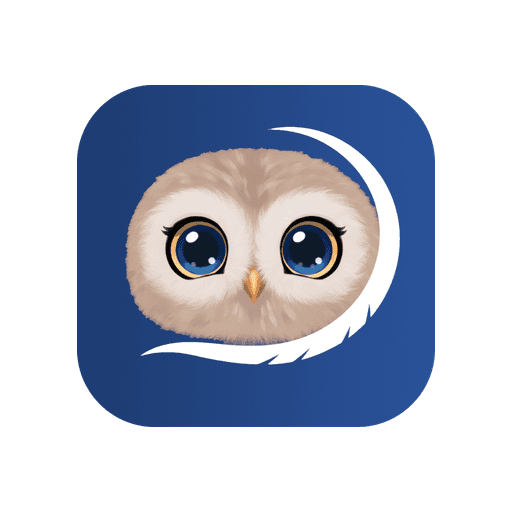
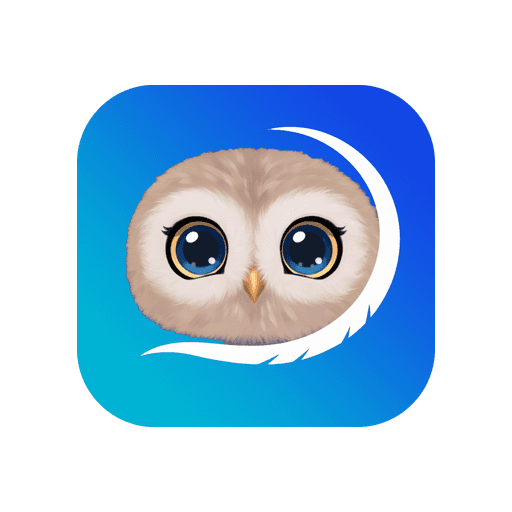
Design header

diff --git a/apps/app/src/index.css b/apps/app/src/index.css
@@ -6,73 +6,71 @@
 @custom-variant dark (&:is(.dark *));
 
 :root {
+  --radius: 0.65rem;
   --background: oklch(1 0 0);
-  --foreground: oklch(0.145 0 0);
+  --foreground: oklch(0.141 0.005 285.823);
   --card: oklch(1 0 0);
-  --card-foreground: oklch(0.145 0 0);
+  --card-foreground: oklch(0.141 0.005 285.823);
   --popover: oklch(1 0 0);
-  --popover-foreground: oklch(0.145 0 0);
-  --primary: oklch(0.205 0 0);
-  --primary-foreground: oklch(0.985 0 0);
-  --secondary: oklch(0.97 0 0);
-  --secondary-foreground: oklch(0.205 0 0);
-  --muted: oklch(0.97 0 0);
-  --muted-foreground: oklch(0.556 0 0);
-  --accent: oklch(0.97 0 0);
-  --accent-foreground: oklch(0.205 0 0);
+  --popover-foreground: oklch(0.141 0.005 285.823);
+  --primary: oklch(0.488 0.243 264.376);
+  --primary-foreground: oklch(0.97 0.014 254.604);
+  --secondary: oklch(0.967 0.001 286.375);
+  --secondary-foreground: oklch(0.21 0.006 285.885);
+  --muted: oklch(0.967 0.001 286.375);
+  --muted-foreground: oklch(0.552 0.016 285.938);
+  --accent: oklch(0.967 0.001 286.375);
+  --accent-foreground: oklch(0.21 0.006 285.885);
   --destructive: oklch(0.577 0.245 27.325);
-  --destructive-foreground: oklch(0.577 0.245 27.325);
-  --border: oklch(0.922 0 0);
-  --input: oklch(0.922 0 0);
+  --border: oklch(0.92 0.004 286.32);
+  --input: oklch(0.92 0.004 286.32);
   --ring: oklch(0.708 0 0);
-  --chart-1: oklch(0.646 0.222 41.116);
-  --chart-2: oklch(0.6 0.118 184.704);
-  --chart-3: oklch(0.398 0.07 227.392);
-  --chart-4: oklch(0.828 0.189 84.429);
-  --chart-5: oklch(0.769 0.188 70.08);
-  --radius: 0.625rem;
+  --chart-1: oklch(0.809 0.105 251.813);
+  --chart-2: oklch(0.623 0.214 259.815);
+  --chart-3: oklch(0.546 0.245 262.881);
+  --chart-4: oklch(0.488 0.243 264.376);
+  --chart-5: oklch(0.424 0.199 265.638);
   --sidebar: oklch(0.985 0 0);
-  --sidebar-foreground: oklch(0.145 0 0);
-  --sidebar-primary: oklch(0.205 0 0);
-  --sidebar-primary-foreground: oklch(0.985 0 0);
-  --sidebar-accent: oklch(0.97 0 0);
-  --sidebar-accent-foreground: oklch(0.205 0 0);
-  --sidebar-border: oklch(0.922 0 0);
+  --sidebar-foreground: oklch(0.141 0.005 285.823);
+  --sidebar-primary: oklch(0.546 0.245 262.881);
+  --sidebar-primary-foreground: oklch(0.97 0.014 254.604);
+  --sidebar-accent: oklch(0.967 0.001 286.375);
+  --sidebar-accent-foreground: oklch(0.21 0.006 285.885);
+  --sidebar-border: oklch(0.92 0.004 286.32);
   --sidebar-ring: oklch(0.708 0 0);
 }
 
 .dark {
-  --background: oklch(0.145 0 0);
+  --background: oklch(0.141 0.005 285.823);
   --foreground: oklch(0.985 0 0);
-  --card: oklch(0.145 0 0);
+  --card: oklch(0.21 0.006 285.885);
   --card-foreground: oklch(0.985 0 0);
-  --popover: oklch(0.145 0 0);
+  --popover: oklch(0.21 0.006 285.885);
   --popover-foreground: oklch(0.985 0 0);
-  --primary: oklch(0.985 0 0);
-  --primary-foreground: oklch(0.205 0 0);
-  --secondary: oklch(0.269 0 0);
+  --primary: oklch(0.488 0.243 264.376);
+  --primary-foreground: oklch(0.97 0.014 254.604);
+  --secondary: oklch(0.274 0.006 286.033);
   --secondary-foreground: oklch(0.985 0 0);
-  --muted: oklch(0.269 0 0);
-  --muted-foreground: oklch(0.708 0 0);
-  --accent: oklch(0.269 0 0);
+  --muted: oklch(0.274 0.006 286.033);
+  --muted-foreground: oklch(0.705 0.015 286.067);
+  --accent: oklch(0.274 0.006 286.033);
   --accent-foreground: oklch(0.985 0 0);
-  --destructive: oklch(0.396 0.141 25.723);
-  --destructive-foreground: oklch(0.637 0.237 25.331);
-  --border: oklch(0.269 0 0);
-  --input: oklch(0.269 0 0);
-  --ring: oklch(0.439 0 0);
-  --chart-1: oklch(0.488 0.243 264.376);
-  --chart-2: oklch(0.696 0.17 162.48);
-  --chart-3: oklch(0.769 0.188 70.08);
-  --chart-4: oklch(0.627 0.265 303.9);
-  --chart-5: oklch(0.645 0.246 16.439);
-  --sidebar: oklch(0.205 0 0);
+  --destructive: oklch(0.704 0.191 22.216);
+  --border: oklch(1 0 0 / 10%);
+  --input: oklch(1 0 0 / 15%);
+  --ring: oklch(0.556 0 0);
+  --chart-1: oklch(0.809 0.105 251.813);
+  --chart-2: oklch(0.623 0.214 259.815);
+  --chart-3: oklch(0.546 0.245 262.881);
+  --chart-4: oklch(0.488 0.243 264.376);
+  --chart-5: oklch(0.424 0.199 265.638);
+  --sidebar: oklch(0.21 0.006 285.885);
   --sidebar-foreground: oklch(0.985 0 0);
-  --sidebar-primary: oklch(0.488 0.243 264.376);
-  --sidebar-primary-foreground: oklch(0.985 0 0);
-  --sidebar-accent: oklch(0.269 0 0);
+  --sidebar-primary: oklch(0.623 0.214 259.815);
+  --sidebar-primary-foreground: oklch(0.97 0.014 254.604);
+  --sidebar-accent: oklch(0.274 0.006 286.033);
   --sidebar-accent-foreground: oklch(0.985 0 0);
-  --sidebar-border: oklch(0.269 0 0);
+  --sidebar-border: oklch(1 0 0 / 10%);
   --sidebar-ring: oklch(0.439 0 0);
 }
 

diff --git a/apps/app/src/routes/__root.tsx b/apps/app/src/routes/__root.tsx
@@ -1,5 +1,7 @@
 import { Link, Outlet, createRootRoute } from '@tanstack/react-router'
 import { TanStackRouterDevtools } from '@tanstack/react-router-devtools'
+import { Plus } from 'lucide-react'
+import { Button } from '@/components/ui/button'
 
 export const Route = createRootRoute({
   component: RootComponent,
@@ -8,28 +10,46 @@ export const Route = createRootRoute({
 function RootComponent() {
   return (
     <>
-      <header className="bg-accent py-3 px-6 flex items-center space-between">
-        <h1 className="text-primary text-lg font-semibold flex-1">
-          AutoGrader
+      <header className="bg-primary py-3 px-6 flex items-center space-between">
+        <img
+          src="/logo-round.png"
+          alt="Logo"
+          className="h-14 w-14 rounded-full mr-2 border-2 border-white"
+        />
+        <h1 className="text-primary-foreground text-lg font-semibold flex-1">
+          Owligent
         </h1>
-        <nav className="p-2 flex gap-2">
-          <Link
-            to="/"
-            activeProps={{
-              className: 'font-bold',
-            }}
-            activeOptions={{ exact: true }}
+        <nav className="text-primary-foreground p-2 flex gap-4 items-center">
+          <Button
+            asChild
+            variant="link"
+            className="text-primary-foreground hover:text-primary-foreground"
           >
-            Assessments
-          </Link>{' '}
-          <Link
-            to="/assessments/new"
-            activeProps={{
-              className: 'font-bold',
-            }}
+            <Link
+              to="/"
+              activeProps={{
+                className: 'font-bold',
+              }}
+              activeOptions={{ exact: true }}
+            >
+              Assessments
+            </Link>
+          </Button>
+          <Button
+            asChild
+            variant="secondary"
+            className="border-white border bg-transparent hover:bg-blue-800 text-primary-foreground hover:text-primary-foreground"
           >
-            New Assessment
-          </Link>
+            <Link
+              to="/assessments/new"
+              activeProps={{
+                className: 'font-bold',
+              }}
+            >
+              <Plus aria-hidden="true" />
+              New Assessment
+            </Link>
+          </Button>
         </nav>
       </header>
       <main className="py-8 px-6">

diff --git a/apps/app/index.html b/apps/app/index.html
@@ -1,5 +1,5 @@
 <!doctype html>
-<html lang="en">
+<html lang="en" class="bg-white" style="min-height: 100%">
   <head>
     <meta charset="UTF-8" />
     <link rel="icon" type="image/svg+xml" href="/vite.svg" />
